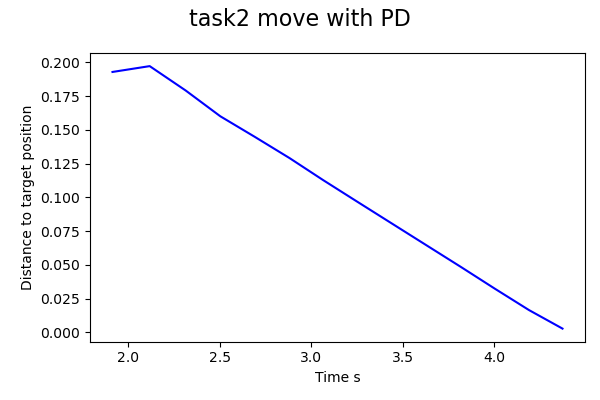
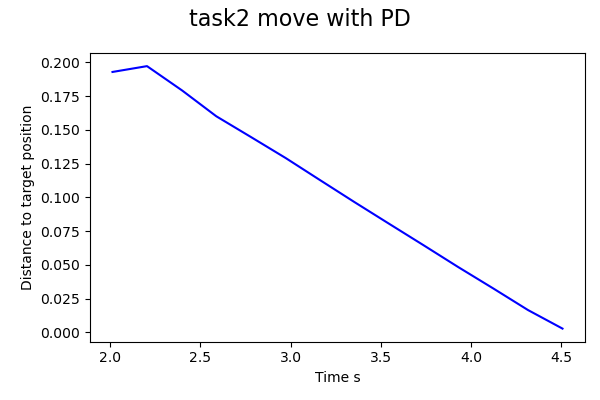
fix task2 tick func

diff --git a/core/Pybullet_Simulation.py b/core/Pybullet_Simulation.py
@@ -408,10 +408,16 @@ kukaId
             time.sleep(self.dt)
         
         # manually added here ----
-        for _ in range(1000):
-            dx_real = self.getJointVel(joint)
+        for i in range(1000):
+            # x_last =  x_list[i-1] if i != 0 else x_list[i]
+            if i == 0:
+                x_last = self.getJointPos(joint)
+            else:
+                x_last = x_list[i-1]
+            
             x_real = self.getJointPos(joint)
             x_list.append(x_real)
+            dx_real = (x_real - x_last) / self.dt # current pos - last pos / time
             x_target.append(targetPosition)
             x_velocity.append(dx_real)
 
@@ -435,7 +441,7 @@ kukaId
         return pltTime, pltTarget, pltTorque, pltTorqueTime, pltPosition, pltVelocity
 
     def move_with_PD(self, endEffector, targetPosition, speed=0.01, orientation=None,
-        threshold=1e-3, maxIter=1000, debug=False, verbose=False):
+        threshold=1e-3, maxIter=100, debug=False, verbose=False):
         """
         Move joints using inverse kinematics solver and using PD control.
         This method should update joint states using the torque output from the PD controller.
@@ -452,7 +458,7 @@ kukaId
         # all IK iterations (optional).
 
         #initial parameters
-        iterNum = 13
+        iterNum = 25
         eff_pos = self.getJointPosition(jointName=endEffector).T[0]  # dim: 3 * 1
         self.plot_distance_dp.append(np.linalg.norm(eff_pos - targetPosition))
         self.plot_time_dp.append(time.process_time())
@@ -467,44 +473,61 @@ kukaId
 
         step_positions = np.linspace(start=eff_pos, stop=targetPosition, num=iterNum)
 
-        for step in range(iterNum):
+        for step in range(1, iterNum):
             current_target = step_positions[step]
 
-            # for _ in range(maxIter):
             dy = current_target - eff_pos
             J = self.jacobianMatrix(endEffector)
             d_theta = np.linalg.pinv(J).dot(dy)
 
+            # last_q = current_q
             current_q += d_theta
 
             # moving by DP
-            for _ in range(80):
-                self.tick(endEffector, current_q)
+            new_x_real = list()
+            for _ in range(100):
+                if len(new_x_real) == 0:
+                    old_x_real = current_q
+                else:
+                    old_x_real = new_x_real
+                new_x_real = self.tick(endEffector, current_q, old_x_real)
 
             # check the position of effector after moving with PD
             eff_pos = self.getJointPosition(jointName=endEffector).T[0]
 
+            # print(np.linalg.norm(eff_pos - current_target))
             print(np.linalg.norm(eff_pos - current_target))
 
             self.plot_distance_dp.append(np.linalg.norm(eff_pos - targetPosition))
             self.plot_time_dp.append(time.process_time())
-                # if np.linalg.norm(eff_pos - current_target) < threshold:
-                #     break
+
+            if np.linalg.norm(eff_pos - targetPosition) < threshold:
+                print('stop')
+                break
 
         return np.array(self.plot_time_dp), np.array(self.plot_distance_dp)
 
-    def tick(self, endEffector, theta_list):
+    def tick(self, endEffector, theta_list, old_x_real):
         """Ticks one step of simulation using PD control."""
         # Iterate through all joints and update joint states using PD control.
         # for joint in self.joints:
+        new_x_real = []
+
         i = 0
         for joint in self.chain_dict[endEffector]:
             integral = 0
             x_ref = theta_list[i]  # target angle 
-            i += 1
-            x_real = self.getJointPos(joint) # endeffector angle 
+            
+            x_real = self.getJointPos(joint) # joint angle 
+            new_x_real.append(x_real)
+
             dx_ref = 0 # target velocity
-            dx_real = self.getJointVel(joint) # endeffector velocity
+
+
+            # dx_real1 = self.getJointVel(joint) # joint velocity
+            # dx_real2 = (x_real - last_q_list[i]) / self.dt
+            dx_real = (x_real - old_x_real[i]) / self.dt
+            i += 1
             
 
             # skip dummy joints (world to base joint)
@@ -548,6 +571,8 @@ kukaId
         self.p.stepSimulation()
         self.drawDebugLines()
         time.sleep(self.dt)
+
+        return new_x_real
 
     ########## Task 3: Robot Manipulation ##########
     def cubic_interpolation(self, points, nTimes=100):

diff --git a/task2/task2.py b/task2/task2.py
@@ -47,74 +47,74 @@ robotConfigs = {
 sim = Simulation(pybulletConfigs, robotConfigs)
 
 # This is an example target (angular) position for the joint LARM_JOINT2
-# task2_jointName = "LARM_JOINT2"
-# task2_targetPosition = np.deg2rad(-45)  # joint (angular) position in radians
-# task2_targetVelocity = 0.0  # joint (angular) velocity in radians per second
-# verbose = False
-# task2_figure_name = "task2_PD_response.png"
-# task2_savefig = False
-# ## to here
+task2_jointName = "CHEST_JOINT0"
+task2_targetPosition = np.deg2rad(-45)  # joint (angular) position in radians
+task2_targetVelocity = 0.0  # joint (angular) velocity in radians per second
+verbose = False
+task2_figure_name = "task2_PD_response.png"
+task2_savefig = False
+## to here
 
 
-# pltTime, pltTarget, pltTorque, pltTorqueTime, pltPosition, pltVelocity = \
-#     sim.moveJoint(
-#         task2_jointName, task2_targetPosition, task2_targetVelocity, verbose)
+pltTime, pltTarget, pltTorque, pltTorqueTime, pltPosition, pltVelocity = \
+    sim.moveJoint(
+        task2_jointName, task2_targetPosition, task2_targetVelocity, verbose)
 
 
 # test move_with_PD ==========================
-endEffector = "LARM_JOINT5"
-targetPosition = np.array([0.37, 0.23, 1.06385])  # x,y,z coordinates in world frame
+# endEffector = "LARM_JOINT5"
+# targetPosition = np.array([0.37, 0.23, 1.06385])  # x,y,z coordinates in world frame
 
-pltTime, pltEFPosition = sim.move_with_PD(endEffector, targetPosition, speed=0.01, orientation=None, threshold=1e-3, maxIter=3000, debug=False, verbose=False)
+# pltTime, pltEFPosition = sim.move_with_PD(endEffector, targetPosition, speed=0.01, orientation=None, threshold=1e-3, maxIter=3000, debug=False, verbose=False)
 
-# Now plot some graphs
-task2_figure_name = "move_with_PD.png"
-task2_savefig = True
-# ...
+# # Now plot some graphs
+# task2_figure_name = "move_with_PD.png"
+# task2_savefig = True
+# # ...
 
-fig = plt.figure(figsize=(6, 4))
+# fig = plt.figure(figsize=(6, 4))
 
-print('pltTime', pltTime)
-print('plotEffPosition', pltEFPosition)
-plt.plot(pltTime, pltEFPosition, color='blue')
-plt.xlabel("Time s")
-plt.ylabel("Distance to target position")
-
-plt.suptitle("task2 move with PD", size=16)
-plt.tight_layout()
-plt.subplots_adjust(left=0.15)
-
-if task2_savefig:
-    fig.savefig(task2_figure_name)
-plt.show()
-
-# ========================================
-
-# modify the code in below if needed
-# fig = plt.figure(figsize=(6, 8))
-
-# plt.subplot(311)
-# plt.plot(pltTime, pltPosition, color='blue')
-# plt.plot(pltTime, pltTarget, color='magenta')
-# plt.ylabel("Theta rads")
-
-# plt.subplot(312)
-# plt.plot(pltTime, pltPosition, color='blue')
-# plt.plot(pltTime, pltVelocity, color='lightblue')
-# plt.ylabel("Velocity rads/s")
-
-# plt.subplot(313)
-# plt.plot(pltTorqueTime, pltTorque, color='orange')
+# print('pltTime', pltTime)
+# print('plotEffPosition', pltEFPosition)
+# plt.plot(pltTime, pltEFPosition, color='blue')
 # plt.xlabel("Time s")
-# plt.ylabel("Torque N")
+# plt.ylabel("Distance to target position")
 
-# plt.suptitle("Task2.2 Response of the controller", size=16)
+# plt.suptitle("task2 move with PD", size=16)
 # plt.tight_layout()
 # plt.subplots_adjust(left=0.15)
 
 # if task2_savefig:
 #     fig.savefig(task2_figure_name)
 # plt.show()
+
+# ========================================
+
+# modify the code in below if needed
+fig = plt.figure(figsize=(6, 8))
+
+plt.subplot(311)
+plt.plot(pltTime, pltPosition, color='blue')
+plt.plot(pltTime, pltTarget, color='magenta')
+plt.ylabel("Theta rads")
+
+plt.subplot(312)
+plt.plot(pltTime, pltPosition, color='blue')
+plt.plot(pltTime, pltVelocity, color='lightblue')
+plt.ylabel("Velocity rads/s")
+
+plt.subplot(313)
+plt.plot(pltTorqueTime, pltTorque, color='orange')
+plt.xlabel("Time s")
+plt.ylabel("Torque N")
+
+plt.suptitle("Task2.2 Response of the controller", size=16)
+plt.tight_layout()
+plt.subplots_adjust(left=0.15)
+
+if task2_savefig:
+    fig.savefig(task2_figure_name)
+plt.show()
 
 
 try:

diff --git a/task2/task2_test_tick.py b/task2/task2_test_tick.py
@@ -1,0 +1,81 @@
+import subprocess, math, time, sys, os, numpy as np
+import matplotlib.pyplot as plt
+import pybullet as bullet_simulation
+import pybullet_data
+
+# setup paths and load the core
+abs_path = os.path.dirname(os.path.realpath(__file__))
+root_path = abs_path + '/..'
+core_path = root_path + '/core'
+sys.path.append(core_path)
+from Pybullet_Simulation import Simulation
+
+# specific settings for this task
+taskId = 1
+
+try:
+    if sys.argv[1] == 'nogui':
+        gui = False
+    else:
+        gui = True
+except:
+    gui = True
+
+
+### You may want to change the code from here
+pybulletConfigs = {
+    "simulation": bullet_simulation,
+    "pybullet_extra_data": pybullet_data,
+    "gui": gui,
+    "panels": False,
+    "realTime": False,
+    "controlFrequency": 1000,
+    "updateFrequency": 250,
+    "gravity": -9.81,
+    "gravityCompensation": .8,
+    "floor": True,
+    "cameraSettings": (1.07, 90.0, -52.8, (0.07, 0.01, 0.76))
+}
+robotConfigs = {
+    "robotPath": core_path + "/nextagea_description/urdf/NextageaOpen.urdf",
+    "robotPIDConfigs": core_path + "/PD_gains.yaml",
+    "robotStartPos": [0, 0, 0.85],
+    "robotStartOrientation": [0, 0, 0, 1],
+    "fixedBase": True,
+    "colored": False
+}
+sim = Simulation(pybulletConfigs, robotConfigs)
+
+
+# test move_with_PD ==========================
+endEffector = "LARM_JOINT5"
+targetPosition = np.array([0.37, 0.23, 1.06385])  # x,y,z coordinates in world frame
+
+pltTime, pltEFPosition = sim.move_with_PD(endEffector, targetPosition, speed=0.01, orientation=None, threshold=1e-3, maxIter=3000, debug=False, verbose=False)
+
+# Now plot some graphs
+task2_figure_name = "move_with_PD.png"
+task2_savefig = True
+# ...
+
+fig = plt.figure(figsize=(6, 4))
+
+print('pltTime', pltTime)
+print('plotEffPosition', pltEFPosition)
+plt.plot(pltTime, pltEFPosition, color='blue')
+plt.xlabel("Time s")
+plt.ylabel("Distance to target position")
+
+plt.suptitle("task2 move with PD", size=16)
+plt.tight_layout()
+plt.subplots_adjust(left=0.15)
+
+if task2_savefig:
+    fig.savefig(task2_figure_name)
+plt.show()
+
+try:
+    time.sleep(float(sys.argv[1]))
+except:
+    time.sleep(10)
+
